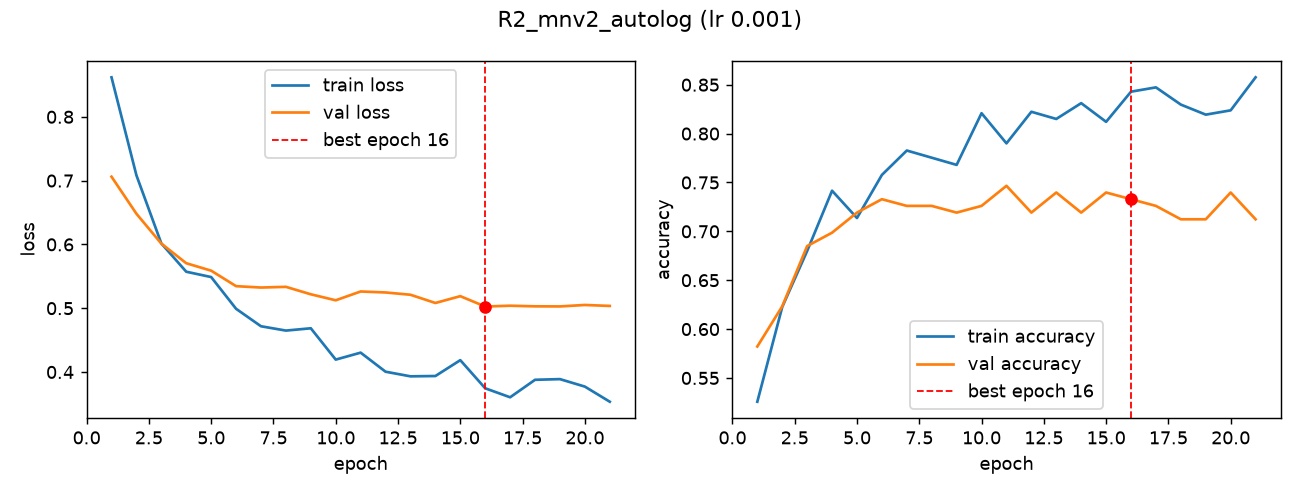
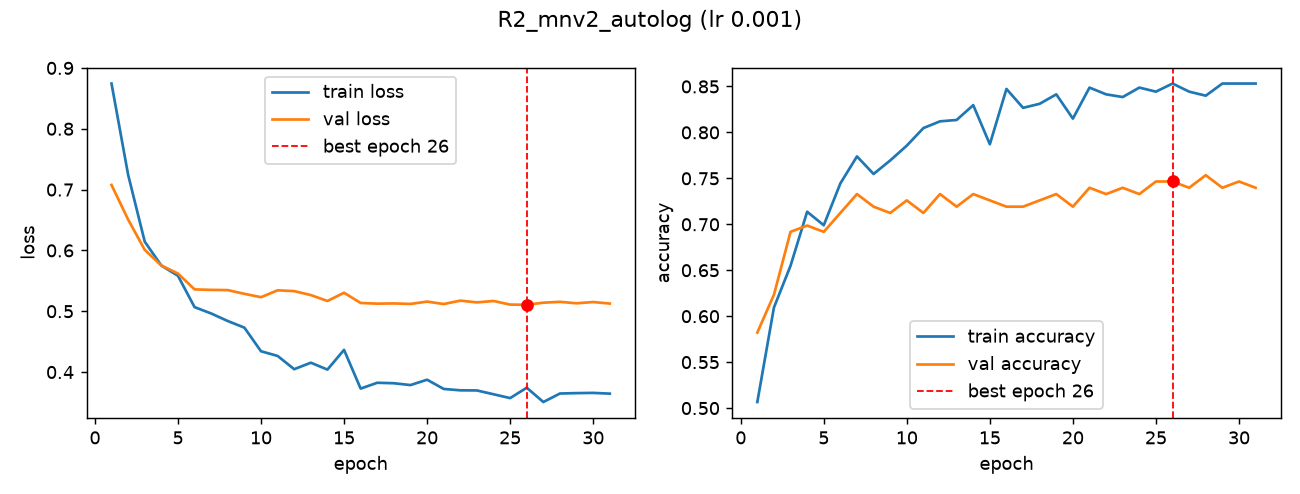
Tuner results, validation AUC bootstrap CIs, tuned run R8

diff --git a/scripts/val_auc_ci.py b/scripts/val_auc_ci.py
@@ -1,0 +1,37 @@
+"""Bootstrap 95% confidence intervals for validation ROC-AUC of every finished run (validation data only)."""
+import sys
+from pathlib import Path
+
+import numpy as np
+import pandas as pd
+from sklearn.metrics import roc_auc_score
+
+ROOT = Path(__file__).resolve().parents[1]
+RNG = np.random.default_rng(42)
+B = 2000
+
+
+def main():
+    preds = {d.name: pd.read_csv(d / "val_preds.csv") for d in sorted((ROOT / "runs").glob("R*/")) if (d / "val_preds.csv").exists()}
+    n = len(next(iter(preds.values())))
+    idx = RNG.integers(0, n, size=(B, n))                      # same resamples for every run -> paired comparison
+    y = next(iter(preds.values())).label.to_numpy()
+    aucs = {}
+    for name, df in preds.items():
+        p = df.prob_ai.to_numpy()
+        aucs[name] = np.array([roc_auc_score(y[i], p[i]) for i in idx if 0 < y[i].sum() < len(i)])
+    rows = ["| run | val AUC | 95% CI |", "|---|---|---|"]
+    for name, a in sorted(aucs.items(), key=lambda kv: -roc_auc_score(y, preds[kv[0]].prob_ai)):
+        rows.append(f"| {name} | {roc_auc_score(y, preds[name].prob_ai):.3f} | {np.percentile(a, 2.5):.3f} to {np.percentile(a, 97.5):.3f} |")
+    best = max(aucs, key=lambda k: roc_auc_score(y, preds[k].prob_ai))
+    rows += ["", f"Paired bootstrap: probability that {best} has a higher AUC than each other run", ""]
+    for name, a in aucs.items():
+        if name != best:
+            rows.append(f"- vs {name}: {np.mean(aucs[best][: len(a)] > a):.2f}")
+    out = ROOT / "reports" / "tables" / "3.5_val_auc_ci.md"
+    out.write_text("\n".join(rows) + "\n", encoding="utf-8")
+    print("\n".join(rows))
+
+
+if __name__ == "__main__":
+    main()

diff --git a/visionguard/train.py b/visionguard/train.py
@@ -40,6 +40,8 @@ def parse_args():
     ap.add_argument("--finetune-lr", type=float, default=1e-5)
     ap.add_argument("--finetune-epochs", type=int, default=20)
     ap.add_argument("--unfreeze-last-n", type=int, default=None)
+    ap.add_argument("--initial-unfreeze-last-n", type=int, default=0,
+                    help="train with the last N backbone layers unfrozen from the start (tuner setting)")
     ap.add_argument("--seed", type=int, default=config.SEED)
     ap.add_argument("--tracking", choices=["none", "manual", "autolog"], default="none")
     return ap.parse_args()
@@ -72,6 +74,8 @@ def main():
         model = build_cnn(args.img_size, dropout)
     else:
         model = build_transfer(args.model, args.img_size, dropout)
+    if args.initial_unfreeze_last_n:
+        unfreeze(model, last_n=args.initial_unfreeze_last_n)
     compile_model(model, args.lr)
     counts_a = param_counts(model)
 

diff --git a/visionguard/tune.py b/visionguard/tune.py
@@ -7,6 +7,11 @@ N = 0 means a frozen backbone), trains briefly with early stopping and is scored
 """
 import argparse
 import sys
+from pathlib import Path
+
+if "--summary" in sys.argv:      # print saved results without importing TensorFlow
+    print((Path(__file__).resolve().parents[1] / "reports" / "tables" / "2.7_vg_tuner.md").read_text(encoding="utf-8"))
+    raise SystemExit
 
 import keras
 import keras_tuner as kt

diff --git a/scripts/run_grid.py b/scripts/run_grid.py
@@ -43,6 +43,8 @@ GRID = {
     "R6_mnv2_finetune":  variant(finetune=True),
     "R7_effb0_frozen":   variant(model="efficientnetb0"),
     "R2_mnv2_autolog":   variant(tracking="autolog"),
+    # best Keras Tuner trial (T1): lr, dropout and unfrozen layers changed together, on purpose
+    "R8_mnv2_tuned":     variant(lr="3.8e-4", dropout=0.1, initial_unfreeze_last_n=10),
 }
 
 

diff --git a/labs/keras_tuner_toy.py b/labs/keras_tuner_toy.py
@@ -7,6 +7,10 @@ import argparse
 import sys
 from pathlib import Path
 
+if "--summary" in sys.argv:      # print saved results without importing TensorFlow
+    print((Path(__file__).resolve().parents[1] / "reports" / "tables" / "2.7_toy_tuner.md").read_text(encoding="utf-8"))
+    raise SystemExit
+
 import keras
 import keras_tuner as kt
 from keras import layers, optimizers

diff --git a/reports/tables/2.7_vg_tuner.md b/reports/tables/2.7_vg_tuner.md
@@ -1,0 +1,27 @@
+| rank | trial | learning_rate | dropout | unfrozen layers | best val_auc |
+|---|---|---|---|---|---|
+| 1 | 00 | 0.00038 | 0.1 | 10 | 0.8845 |
+| 2 | 09 | 0.00050 | 0.5 | 10 | 0.8832 |
+| 3 | 06 | 0.00006 | 0.3 | 30 | 0.8800 |
+| 4 | 07 | 0.00013 | 0.3 | 10 | 0.8751 |
+| 5 | 01 | 0.00005 | 0.5 | 10 | 0.8701 |
+| 6 | 02 | 0.00023 | 0.1 | 10 | 0.8667 |
+| 7 | 08 | 0.00001 | 0.1 | 20 | 0.8644 |
+| 8 | 03 | 0.00004 | 0.5 | 20 | 0.8476 |
+| 9 | 05 | 0.00001 | 0.3 | 0 | 0.6158 |
+| 10 | 04 | 0.00183 | 0.1 | 30 | 0.5000 |
+
+Best settings: learning_rate = 0.00038, dropout = 0.1, unfrozen layers = 10 (val_auc 0.8845)
+
+Mean val_auc by number of unfrozen layers:
+
+- 0 unfrozen: 0.6158 (n=1)
+- 10 unfrozen: 0.8759 (n=5)
+- 20 unfrozen: 0.8560 (n=2)
+- 30 unfrozen: 0.6900 (n=2)
+
+Spearman correlation of each setting with val_auc:
+
+- learning_rate: +0.35
+- dropout: +0.15
+- n_unfrozen_layers: -0.19

diff --git a/reports/tables/3.5_val_auc_ci.md b/reports/tables/3.5_val_auc_ci.md
@@ -1,0 +1,20 @@
+| run | val AUC | 95% CI |
+|---|---|---|
+| R7_effb0_frozen | 0.843 | 0.779 to 0.900 |
+| R6_mnv2_finetune | 0.837 | 0.772 to 0.896 |
+| R3_mnv2_no_aug | 0.831 | 0.764 to 0.891 |
+| R2_mnv2_autolog | 0.825 | 0.758 to 0.885 |
+| R2_mnv2_frozen | 0.821 | 0.754 to 0.883 |
+| R4_mnv2_lr1e-4 | 0.809 | 0.741 to 0.873 |
+| R1_cnn_baseline | 0.773 | 0.690 to 0.846 |
+| R5_mnv2_img224 | 0.765 | 0.691 to 0.837 |
+
+Paired bootstrap: probability that R7_effb0_frozen has a higher AUC than each other run
+
+- vs R1_cnn_baseline: 0.95
+- vs R2_mnv2_autolog: 0.75
+- vs R2_mnv2_frozen: 0.79
+- vs R3_mnv2_no_aug: 0.68
+- vs R4_mnv2_lr1e-4: 0.89
+- vs R5_mnv2_img224: 0.99
+- vs R6_mnv2_finetune: 0.61

diff --git a/reports/tables/2.7_toy_tuner.md b/reports/tables/2.7_toy_tuner.md
@@ -1,0 +1,12 @@
+| rank | trial | learning_rate | units | best val_accuracy |
+|---|---|---|---|---|
+| 1 | 0 | 0.00190 | 32 | 0.8395 |
+| 2 | 1 | 0.00066 | 96 | 0.8370 |
+| 3 | 5 | 0.00905 | 160 | 0.8265 |
+| 4 | 4 | 0.00099 | 64 | 0.8245 |
+| 5 | 3 | 0.00125 | 32 | 0.8225 |
+| 6 | 6 | 0.00672 | 32 | 0.8190 |
+| 7 | 2 | 0.00598 | 96 | 0.8185 |
+| 8 | 7 | 0.00855 | 32 | 0.8170 |
+
+Best settings: learning_rate = 0.00190, units = 32
